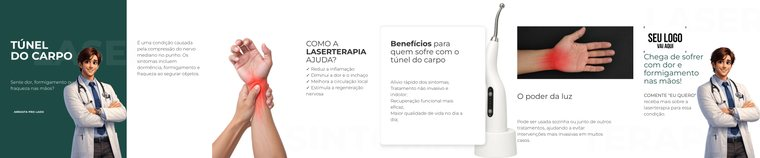
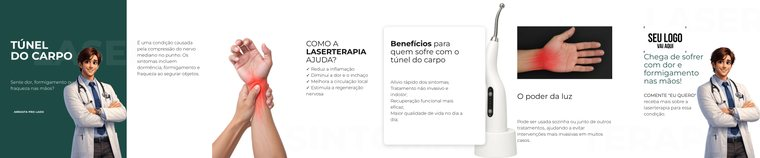
laserpro: preto do texto, folga do cartao e a faixa que nao sangra
Tres pontos do Gustavo, todos medidos nas laminas antes de mexer:

1. TEXTO. Nao era peso, era COR: o nucleo do glifo na lamina e preto puro
   (0,0,0 na 3, 5,5,5 na 6), e o token ink #2F2F2F saturava em (47,47,47) —
   nunca chegava la. ink -> #111111; o render agora da (17,17,17). Isso conserta
   junto o CTA do slide 6, que ele apontou ter o mesmo problema: mesmo token.

2. CARTAO COLADO NA BORDA. Medido: na lamina o cartao comeca a 2.8% (30px em
   1080); o nosso comecava em 0. A coluna 2 daria 8.3%, folga demais, e estilo
   inline fora da whitelist e barrado pelo gate — corretamente. Entao nasceu
   data-inset-left/right no design system, com os 30px medidos.

3. FAIXA DO SLIDE 5. Eu tinha feito sangrar de borda a borda; na lamina ela vai
   de 9.5% a 84.5%, com margem dos dois lados. Colunas 2..11 em vez de 2..13 —
   agora 8.3% a 83.2%.

diff --git a/packs/laserpro-continuo/exemplos/ref-estrutura.html b/packs/laserpro-continuo/exemplos/ref-estrutura.html
@@ -65,7 +65,7 @@
        atravessa o slide de alto a baixo POR CIMA do cartão — na lâmina ele é o
        elemento dominante, não um selo. A base cai no slide 5. -->
   <section class="slide" data-role="item">
-    <div class="ds-card" data-el-id="s4c" data-layer data-shadow-soft style="grid-area: 3 / 1 / 12 / 11"></div>
+    <div class="ds-card" data-el-id="s4c" data-layer data-shadow-soft data-inset-left style="grid-area: 3 / 1 / 12 / 11"></div>
     <h2 class="ds-headline" data-el-id="s4t" data-case="sentence" data-weight="light"
         data-template-element data-te-description="tese dos beneficios"
         data-te-min-chars="12" data-te-max-chars="48"
@@ -80,7 +80,7 @@
        margem — é assim na lâmina. Tese e apoio abaixo. -->
   <section class="slide" data-role="item">
     <img class="ds-photo" data-el-id="s5f" data-static data-image-type="generated"
-         src="foto-faixa-dor.png" style="grid-area: 3 / 2 / 7 / 13">
+         src="foto-faixa-dor.png" style="grid-area: 3 / 2 / 7 / 11">
     <h2 class="ds-headline" data-el-id="s5t" data-case="sentence" data-weight="light"
         data-template-element data-te-description="tese curta"
         data-te-min-chars="8" data-te-max-chars="26"

diff --git a/engine/design-system.css b/engine/design-system.css
@@ -209,6 +209,13 @@ section.slide[data-invert] .ds-card .ds-cta { background: var(--accent); color: 
    sobre gap de um lado e sangria do outro. */
 [data-half-left]  { margin-left: -45px; }    /* desliza meia coluna (90px) */
 [data-half-right] { margin-right: 45px; }    /* encolhe meia coluna pela direita */
+/* FOLGA DE BORDA: cartao que comeca na coluna 1 fica colado na extremidade do
+   slide. A coluna 2 daria 8.3%, folga demais. Medido na lamina do laserpro:
+   2.8% = 30px em 1080 — uma nesga, o suficiente para o cartao nao brotar da
+   borda. Como a whitelist de estilo inline so aceita grid-area (e deve mesmo),
+   isto vive aqui, nao no HTML do pack. */
+[data-inset-left]  { margin-left: 30px; }
+[data-inset-right] { margin-right: 30px; }
 .ds-card[data-variable] { background: var(--accent); color: var(--accent-ink); }
 .ds-card[data-variable] .ds-number, .ds-card[data-variable] .ds-headline,
 .ds-card[data-variable] .ds-body, .ds-card[data-variable] .ds-eyebrow { color: var(--accent-ink); }
